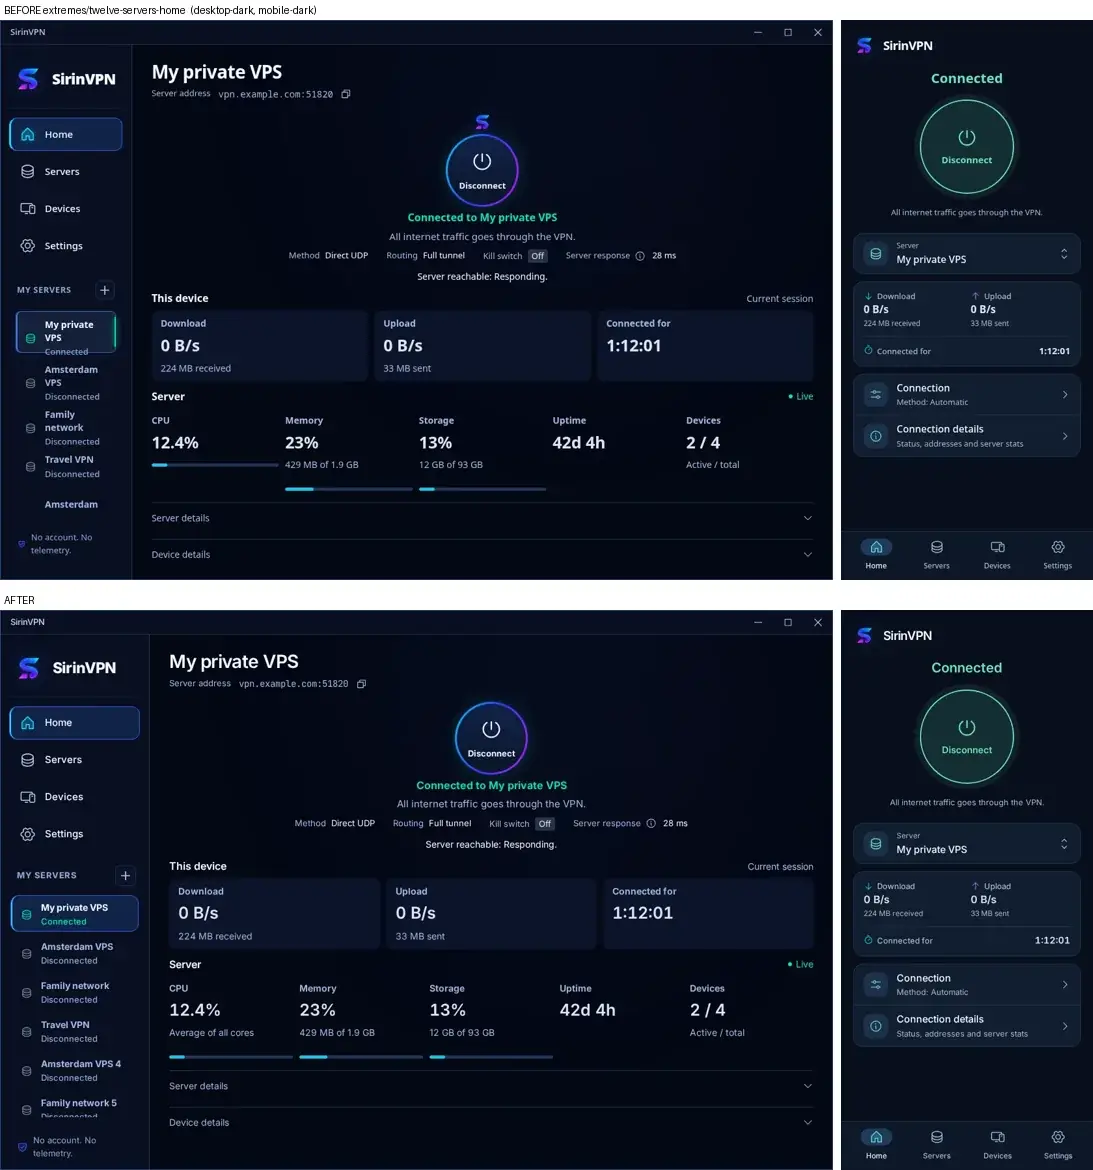
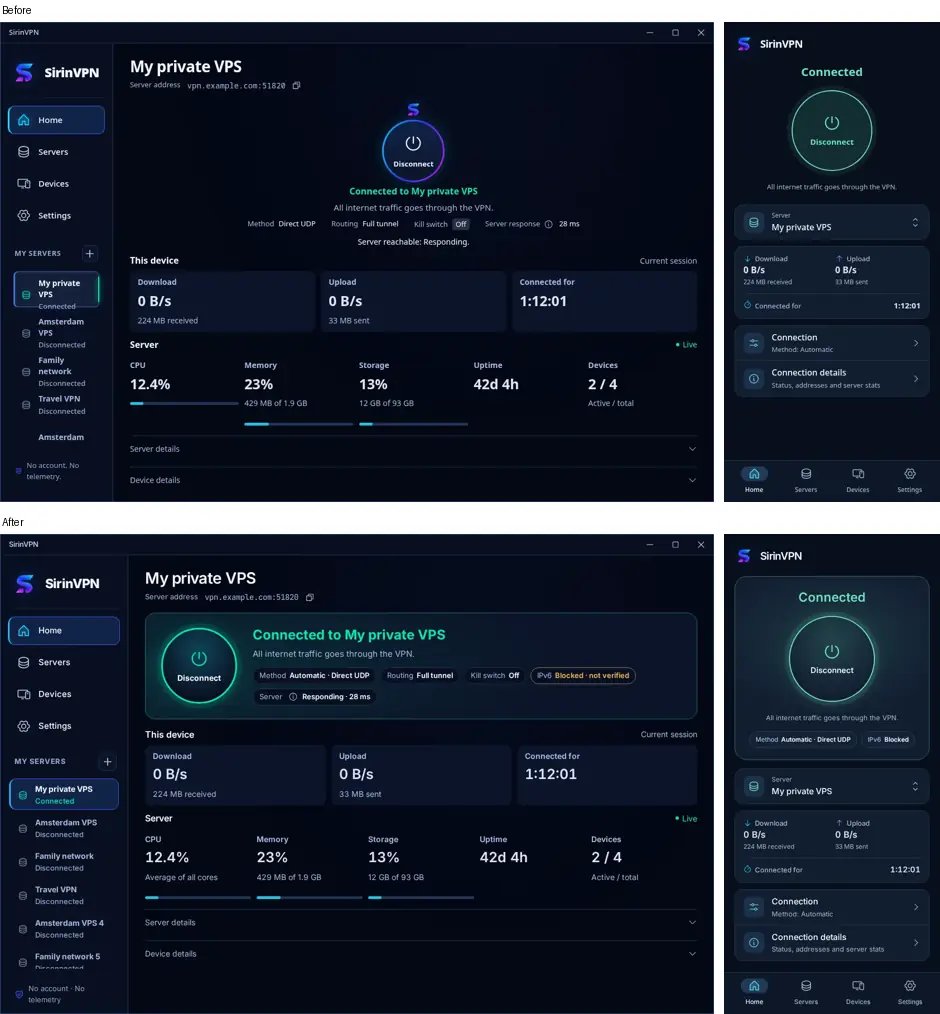
Record the round-2 numbers, reviews and finding status in the UI review

diff --git a/docs/ui-review-2026-11-01.md b/docs/ui-review-2026-11-01.md
@@ -2,32 +2,39 @@
 
 This review covers screenshots of every UI state in the SirinVPN app, captured by `tests/ui/catalog/full_capture.py` with fictional fixture data in the desktop Tauri window and the Android phone layout, in dark and light themes.
 
-**What was captured.** 657 scenarios: the 549 of the original catalog plus 108 in `coverage_states.py`. On the desktop window (1280×860) and the Android phone layout (412×915), in dark and light themes, that is 2,268 states (165 scenarios exist only on the desktop). Each state has a screenshot of every scroll position, an audit (`audit.js`) and its visible text; the first state of each family also gets a Tab focus pass.
+**What was captured.** 660 scenarios: the 549 of the original catalog plus 111 in `coverage_states.py`. On the desktop window (1280×860) and the Android phone layout (412×915), in dark and light themes, that is 2,276 states (166 scenarios exist only on the desktop). Each state has a screenshot of every scroll position, an audit (`audit.js`) and its visible text; the first state of each family also gets a Tab focus pass.
 
 | | Original UI (`main`) | This change |
 |---|---|---|
-| States captured | 2,268 of 2,268 | 2,268 of 2,268 |
-| Screenshots (WebP) | 6,412 (254 MB) | 6,278 (257 MB) |
-| English UI messages shown by some state | 1,341 of 1,823 | 1,391 of 1,836 |
+| States captured | 2,072 of 2,276 (204 unreachable, see below) | 2,276 of 2,276 |
+| Screenshots (WebP) | 5,990 (239 MB) | 5,846 (245 MB) |
+| English UI messages shown by some state | 1,296 of 1,823 | 1,585 of 2,135 |
 | Low-contrast text (state hits / distinct elements) | 114 / 24 | 0 / 0 |
-| Text under 12px | 3,684 / 105 | 0 / 0 |
-| Touch targets under 24px (desktop) or 44px (Android) | 1,160 / 59 | 66 / 5 |
-| Tab stops without a visible focus ring | 14 / 4 | 14 / 4 (dialog headings) |
+| Text under 12px | 3,538 / 94 | 0 / 0 |
+| Touch targets under 24px (desktop) or 44px (Android) | 978 / 46 | 0 / 0 |
+| Tab stops without a visible focus ring | 14 / 4 | 0 / 0 |
+| Clipped text | 44 / 2 | 0 / 0 |
 
-Message coverage counts a message when all its fixed text appears in some state; errors that now drop "Try again." after a cause no longer count, which is why the after column rose less than the earlier run's 1,420.
+Message coverage counts a message when all its fixed text appears in some state. The redesign added 312 messages, and the share that some state shows rose from 71% to 74%. The audit also checks every visible control for an accessible name and every image for a text alternative; neither run has a hit.
 
 The tooling this replaces captured only the desktop window in the dark theme: 549 states that showed 1,116 of the 1,819 messages. Both columns above were captured with the same harness: the original UI was served from `main` with `tests/ui/catalog/serve_ui.sh`.
 
 **Structure.** The stylesheets were 6,608 lines in 35 files that overrode each other: the sidebar alone was styled in 10 files. The app shell now has one home (`styles/shell.css`), 262 declarations that a later rule with the same selector always overrode were removed (a before/after capture of 967 states was pixel-identical), and `tests/unit/test_css_overrides.py` keeps both from coming back. The stylesheets are now 6,191 lines in 34 files.
 
-**Before and after.** Top row before, bottom row after; desktop dark, then Android dark.
+**Before and after.** In each image, the top row is before and the bottom row is after; within each row, desktop dark comes first, then Android dark.
 
 | | |
 |---|---|
-| First launch: described choices instead of a five-way segmented control | ![](images/ui-review-2026-11-01/onboarding-first-launch-my-vps.webp) |
+| Connected Home: one tone for the ring, headline and panel; labelled chips | ![](images/ui-review-2026-11-01/home-connected-home.webp) |
+| Interrupted connection: amber, says whether traffic is blocked, Reconnect on the ring | ![](images/ui-review-2026-11-01/home-connection-interrupted-home.webp) |
 | Disconnected Home: no empty tiles or second Connect | ![](images/ui-review-2026-11-01/home-disconnected-home.webp) |
-| Sidebar with twelve servers; aligned usage bars | ![](images/ui-review-2026-11-01/extremes-twelve-servers-home.webp) |
+| Settings: Android splits app and server pages and shows each page's value | ![](images/ui-review-2026-11-01/settings-settings-index.webp) |
+| Devices grouped under their member, with a summary line | ![](images/ui-review-2026-11-01/devices-owner-device-list.webp) |
 | Device menu grouped once per section | ![](images/ui-review-2026-11-01/devices-menu-morgans-laptop.webp) |
+| Failed install: stays on its step with the failed phase and whether the server changed | ![](images/ui-review-2026-11-01/provisioning-password-install-failed-configuring.webp) |
+| Unreadable saved servers: a problem screen with the fix, not the first-launch pitch | ![](images/ui-review-2026-11-01/startup-error-listservers.webp) |
+| First launch: described choices instead of a five-way segmented control | ![](images/ui-review-2026-11-01/onboarding-first-launch-my-vps.webp) |
+| Sidebar with twelve servers; aligned usage bars | ![](images/ui-review-2026-11-01/extremes-twelve-servers-home.webp) |
 | Preferences that failed to load: an error with Try again, not defaults | ![](images/ui-review-2026-11-01/connection-preferences-error.webp) |
 | Local networks: invalid lines flagged at the field | ![](images/ui-review-2026-11-01/local-networks-invalid.webp) |
 
@@ -175,52 +182,82 @@ Nine reviewers each took a group of state families and judged every state sheet,
 
 ## Status after this change
 
-The fixes are in the same pull request as this report. "Partly" means the finding's main harm is gone but part of its fix list is still open.
+The fixes are in the same pull request as this report, in two rounds. The first round fixed the worst problems and the structure. The second redesigned the screens that were still weak, then fixed what five regression reviewers found. "Partly" means the finding's main harm is gone but part of its fix list is still open. "Open" says why it wasn't done.
 
-**Fixed**
-- UX-07 "Server key changed" leads with the stop-and-check warning, in danger styling.
-- UX-08 A saved kill switch that is not active yet says so under its toggle.
-- UX-10 Home names the case and offers "Go to the connected server".
-- UX-12 Saved ranges from another routing mode no longer count as unsaved; the floating save bar stays one line.
-- UX-13 Startup loading and error screens keep the desktop title bar.
-- UX-14, UX-37 Connection and Network show a load state or a load error with Try again, never default values.
-- UX-15, UX-102 The sidebar is one owned stylesheet: a scrolling server list, two-line names with the full name as a tooltip, one selection marker shared with the navigation.
-- UX-16 Desktop menus use Android's grouping: one heading per group, destructive actions last, compact rows.
-- UX-17 The app-routing Program field is a standard field.
-- UX-20 The one-time recovery key appears under the button that created it.
-- UX-21 A device that can't issue a recovery key says who can.
-- UX-23 Turning on Wi-Fi auto-connect shows "Starting auto-connect…" instead of "off".
-- UX-24 Android copy failures point to View or share invitation.
-- UX-25 Long fingerprints and paths wrap; a kept Hetzner server gets its own title.
-- UX-30 Light-theme switches use a saturated track and a white knob.
-- UX-32 No text is smaller than 12px (52 declarations raised).
-- UX-42 Device rows name the owning member.
-- UX-46, UX-91 Disconnected Home drops the three "Not connected" tiles and the second Connect button; the CPU, memory and storage bars share one baseline.
-- UX-52 With a manual packet size, the measurement is no longer described as about to be applied.
-- UX-90 Option cards keep the radio and drop the second check mark.
-- UX-95 Destructive text buttons are red on desktop as on Android.
+**What changed most**
+- **Home, both platforms.**
+  - The status panel, the power ring and the headline share one colour:
+    - green only while nothing undermines the connection;
+    - amber for a failed kill switch, unprotected IPv6, a server fault or an interrupted connection;
+    - a pulse while busy.
+  - An interrupted connection offers Reconnect on the ring.
+  - Method, routing, kill switch, IPv6 and server response are labelled chips.
+  - Every alert has one place under the panel, with its own action (Run diagnostics, Finish key rotation, Check server health).
+  - Android Home is a centred status card, with the headline above the ring.
+  - The desktop sidebar says Connecting or Disconnecting as soon as you press the ring.
+- **Feedback.**
+  - One toast confirms results whose control is gone or off screen (`components/Toasts.tsx`).
+  - Errors scroll themselves into view. They offer Try again only when no other button on screen does the same thing, and never for a paid action.
+  - Field errors are red and block saving in every form.
+  - Acknowledgement checkboxes share one style.
+- **Devices.**
+  - Devices are grouped under their member, and each member's actions are in its own menu.
+  - The search bar is pinned, renaming happens in an in-app dialog, and member policies are entered in local time.
+  - The summary counts open invitations.
+- **Setup and maintenance.**
+  - A failed install stays on the install step. It shows the failed phase, whether the server changed, and Retry.
+  - Hetzner keeps its context through to a ready step, and never offers a bare Try again on the paid create.
+  - Maintenance dialogs show results at the top, keep their buttons in a fixed footer, label every fingerprint and hash, and say why a primary button is disabled.
+- **Settings.**
+  - Android Settings separates app settings from per-server pages. Each page shows its current value and names the server it applies to.
+  - Each page has one save line.
+  - Notices that say "connect first", "update the VPS", "update the VPN component" or "update the app" carry that button.
+  - Diagnostic checks that point at a settings page open it.
+  - Android no longer lists desktop-only settings.
+- **Startup.** Unreadable saved servers and a failed start get their own screen with the platform's fix, instead of the first-launch pitch.
+
+**Fixed:** UX-01 to UX-17, UX-19 to UX-33, UX-35 to UX-55, UX-57 to UX-60, UX-62 to UX-76, UX-79 to UX-85, UX-87 to UX-93, UX-95 to UX-102, UX-104, UX-106 to UX-126, UX-128, UX-129 (118 of 129).
 
 **Partly fixed**
-- UX-01 Errors now name the failed action before the cause (`errorMessage()`); a Try again button is still missing in most places.
-- UX-02 MTU, invitation uses, routes (including an empty list), local networks and repeated passwords show field errors and block saving; member policy, blocklist and port fields are unchanged.
-- UX-04 Home no longer claims all traffic is covered while IPv6 is neither tunneled nor blocked; the kill-switch-failed case is unchanged.
-- UX-05 Interrupted connections say whether traffic is blocked or unprotected, and Reconnect is the primary button; the ring still reads Disconnect.
-- UX-06 The uninstall consequence is on screen before the final button. "Remove from this device" already asks for confirmation; the capture auto-accepts it.
-- UX-11 Android no longer lists system-owned settings as next-connection changes.
-- UX-19 The app update dialog shows install controls only for installable releases; the VPS receipt mismatch still has no Repair button.
-- UX-33 Blocklist failures use the warning style.
-- UX-34, UX-64, UX-109 The invite form's permissions disclosure has a chevron, the access-level hint follows the selection, and the orphan recipient line sits by the create button.
-- UX-38 The pending-change list waits until edits are saved.
-- UX-63 "Cancel" on invitations reads "Cancel invitation".
-- UX-31 Unstyled disclosure rows are at least 24px tall, 46px on Android.
+- **UX-34, UX-86, UX-94:** each redesigned area uses one disclosure, label and spacing style. No single shared component covers all of them yet.
+- **UX-56:** the speed test shows its phase and the time left. It can't be cancelled, because the backend has no cancel.
+- **UX-61:** the first-release check continues after binding. There is no "Restart now", because the app has no restart command.
+- **UX-77:** after a transfer, the Devices page takes the role from the verified member list. This still needs confirming with a real transfer.
+- **UX-78:** renaming is an in-app dialog with validation. Device icons are still guessed from the name, because membership data carries no platform.
+- **UX-103:** all-pass, failed and empty reports read correctly, with one count line and one disclosure. Results stay in one column, because each check is a full sentence of advice.
+- **UX-105:** the review states the release type, the Preview channel says it is pre-release, and a security badge shows only on a release that would be installed. Releases carry no notes to link to.
+- **UX-127:** there is one warning, shown only to people who can forward ports. Members still see no read-only ad-blocking status, because the server only lets managers read the blocklist.
 
-**Regression check.** Two reviewers compared before and after sheets for 172 states (the most-changed and two random states of every family, dark everywhere, light in 56). They found no broken layout. The changes they did find were fixed before merge: SSH username and port had stacked (one rule lost to a selector-splitting bug in the cleanup tool, now restored), and some prefixed errors were long and centred. Two back links had competed on the setup steps, and menu rows had become cramped.
+**Open**
+- **UX-18:** a default release source is a product decision. The app ships no URLs.
 
-**Open:** every other finding, including UX-03, UX-09 (check the fixture first), UX-18 (a default release source is a product decision: the app ships no URLs) and UX-22.
+**Regression check.**
 
-**Not in the review, fixed here:** the desktop first launch and Add server offered five ways in a cramped two-column segmented control with 11px labels; both layouts now show the same described list Android used, with a way back.
+- **Round 1.** Two reviewers compared before and after sheets for 172 states: the most-changed state and two random states of every family, dark theme everywhere and light theme in 56. They found no broken layout. The regressions they found are fixed:
+  - SSH username and port had stacked;
+  - some prefixed errors were long and centred;
+  - two back links competed on the setup steps;
+  - menu rows had become cramped.
+- **Round 2.** Five reviewers compared 444 states across every family. They used the before/after sheets, opened the full scroll captures wherever a sheet hid the change, and spot-checked the light theme. Their verdicts: 265 better, 167 the same and 12 worse.
+  - **All fixed in this pull request:** the 12 worse states, both P1s and every P2. The P1s were toasts hidden under dialog backdrops, and a failed version check that said an install had been rolled back. The P2s included:
+    - a startup line naming a button that wasn't shown;
+    - a failed app launch shown in green;
+    - a bare Try again on a paid Hetzner create;
+    - a dead back link while a server was being created;
+    - the restore of an older AppImage showing no progress.
+  - **Most P3s are also fixed.**
+  - **Left as polish:**
+    - DNS wording: suggesting the canonical CIDR form, saying which resolver breaks a split zone, and naming the missing field in the DNS dialog footer;
+    - the placement of the primary button across Devices dialogs;
+    - the native date field in member policies, which shows the system's date format next to the app's;
+    - an empty diagnostics report, which has no Connect button;
+    - the recovery row of the Android settings index, which shows a hint instead of a value.
+
+**Not in the review, fixed here:** the desktop first launch and Add server offered five ways in a cramped two-column segmented control with 11px labels. Both layouts now show the same described list Android used, with a way back.
 
 ## Capture artefacts (not product bugs)
+
+- **`main` can't reach some states with the final harness.** 204 of the 2,276 states fail on `main`. 198 of them stop at "Missing control", because the scenario clicks a control that only the redesigned UI has. Examples are the per-member menu in member policy and member actions, the step buttons of the redesigned maintenance dialogs, and the invitation's "Add device for". The other 6 stop at "Missing evidence target". These states have no before image.
 
 - **Stock error text.** Every failure state shows a fixed string from `operationError()` in `tests/ui/catalog/bridge.ts`: "The requested VPS operation could not complete…", "The requested package could not be verified…", the import message on the recovery-key export failure, and "Local preferences could not be saved" on a load failure. It contradicts "Signature verified" badges in the same view and leaves a stale banner behind the troubleshooter. The product issue is UX-01; re-capture with per-action messages before judging wording.
 - **States not reached.** Desktop `member-policy/*` (all 15 failed: the non-exact click on "Family" opened the member menu), `home/endpoint-copy-*` (control inside collapsed Device details), Android `provisioning/password-*` and `password-fingerprint-review` (secure entry not stubbed, fixture not exercised), `dns/clear-private-records-review` (empty SSH password, Review never reached), desktop `vps-updates-ssh-password` (password never filled), mobile `servers/server-rename-confirmation` (never submits), the Android onboarding option list (never tapped), and `home/maximized-titlebar` (maximise never triggered).
